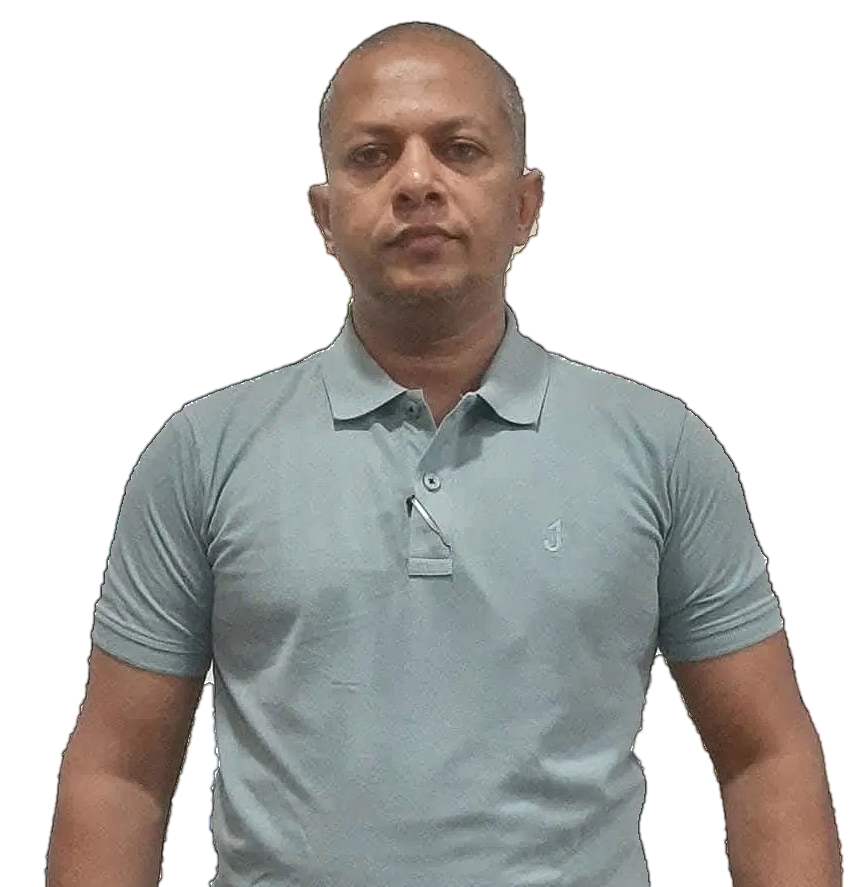
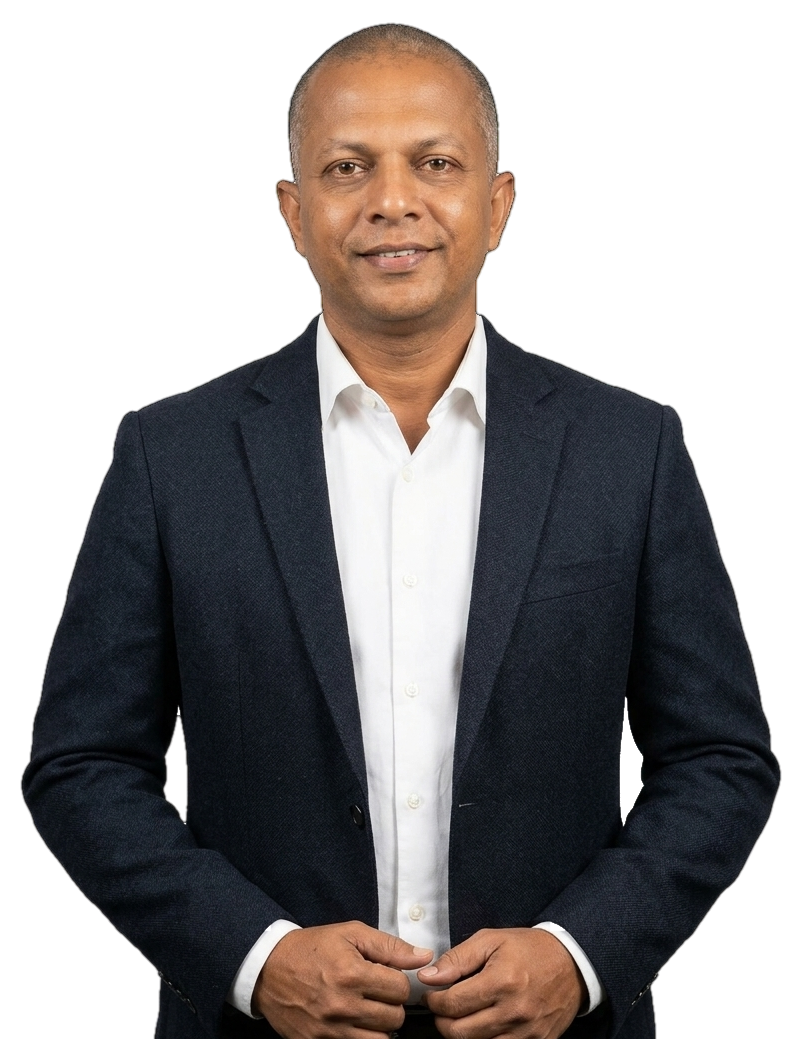
feat: add portrait asset, card texture generator, and core styles

diff --git a/src/lib/cardTextures.js b/src/lib/cardTextures.js
@@ -99,11 +99,11 @@ export function drawFront(ctx, W, H, img, logo) {
   ctx.fillRect(cx - r, cy - r, r * 2, r * 2);
 
   if (img) {
-    // Crop tightly around head & polo collar so face fills the circular frame naturally
-    const cropW = img.width * 0.66;
+    // Frame head, white dress collar, and dark blazer lapels cleanly inside the circle
+    const cropW = img.width * 0.74;
     const sx = (img.width - cropW) / 2;
     const sy = 0;
-    ctx.drawImage(img, sx, sy, cropW, cropW, cx - r, cy - r + 14, r * 2, r * 2);
+    ctx.drawImage(img, sx, sy, cropW, cropW, cx - r, cy - r + 10, r * 2, r * 2);
   } else {
     ctx.fillStyle = "#fff";
     ctx.font = "800 110px Sora, sans-serif";

diff --git a/src/styles.css b/src/styles.css
@@ -442,11 +442,13 @@ a {
 .hero-portrait {
   position: relative;
   z-index: 2;
-  width: min(76vw, 395px);
+  width: auto;
+  max-width: min(78vw, 370px);
+  max-height: 390px;
   height: auto;
   display: block;
   object-fit: contain;
-  transform: translateY(14px);
+  transform: translateY(16px);
   filter: drop-shadow(0 22px 38px rgba(0, 0, 0, 0.65));
   pointer-events: none;
 }
@@ -1713,8 +1715,9 @@ a {
   }
 
   .hero-portrait {
-    width: 415px;
-    transform: translateY(22px);
+    max-width: 395px;
+    max-height: 465px;
+    transform: translateY(24px);
   }
 
   .hero-bottom-lockup {
